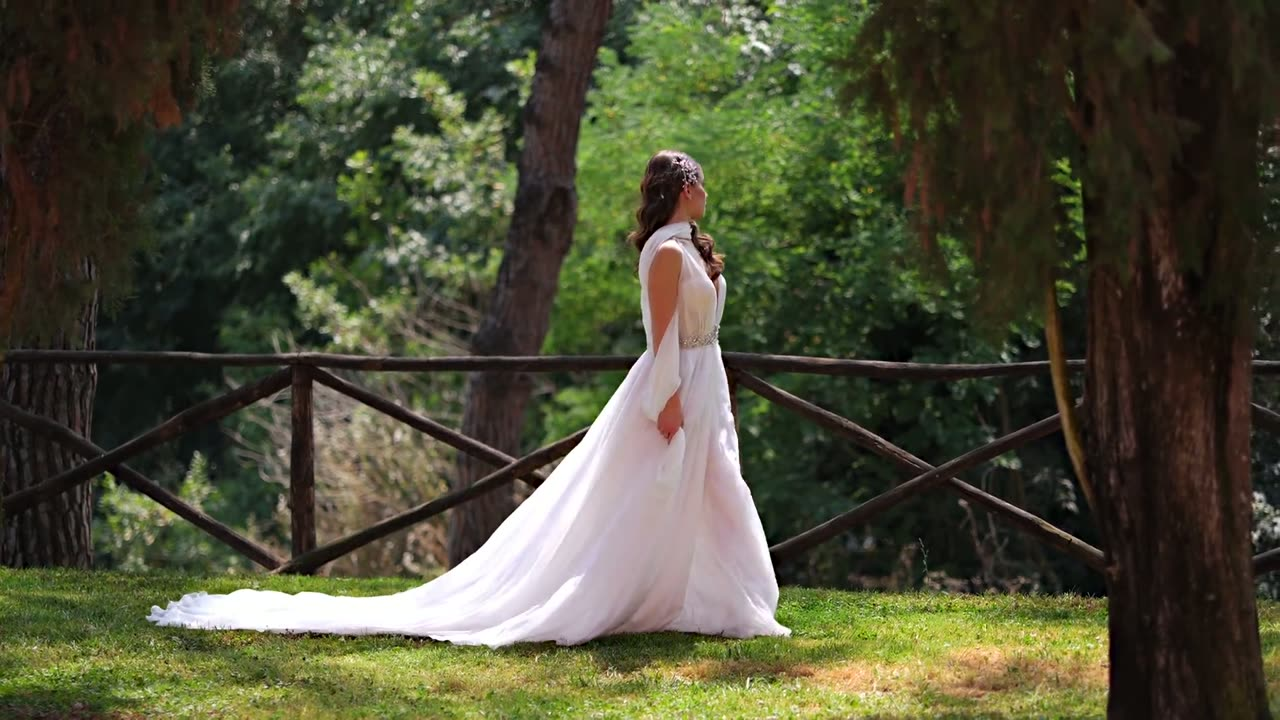
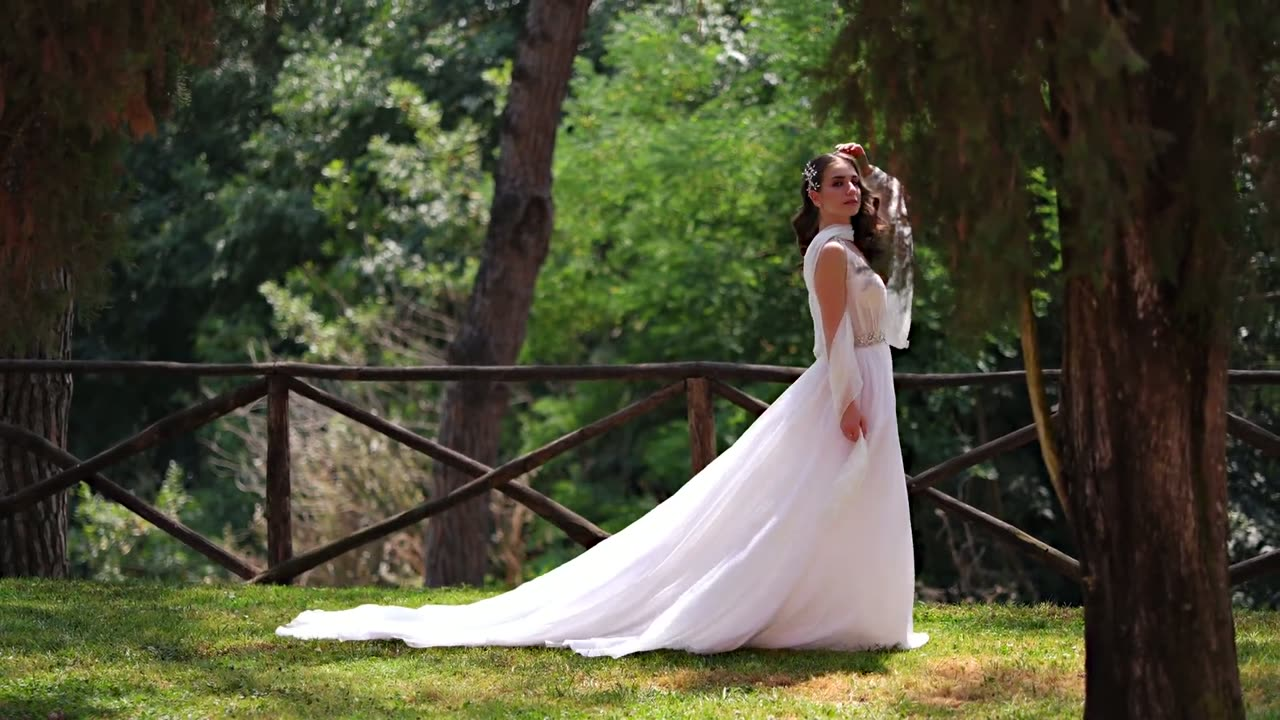
Ajusta hero do celular (quadro 8s) e aumenta cards de coleção no desktop

diff --git a/site/index.html b/site/index.html
@@ -383,7 +383,11 @@
   /* celular: foto estática no hero (mais leve e sempre bem composta) */
   @media (max-width:767px){
     .hero-video{display:none}
-    .hero{background-image:url('imagens/hero-mobile.jpg');background-position:52% 24%}
+    .hero{background-image:url('imagens/hero-mobile.jpg');background-position:74% 25%}
+  }
+  /* desktop: cards de coleção maiores pra preencher melhor o espaço */
+  @media (min-width:1041px){
+    .col-card{aspect-ratio:3/5.5}
   }
 </style>
 </head>
